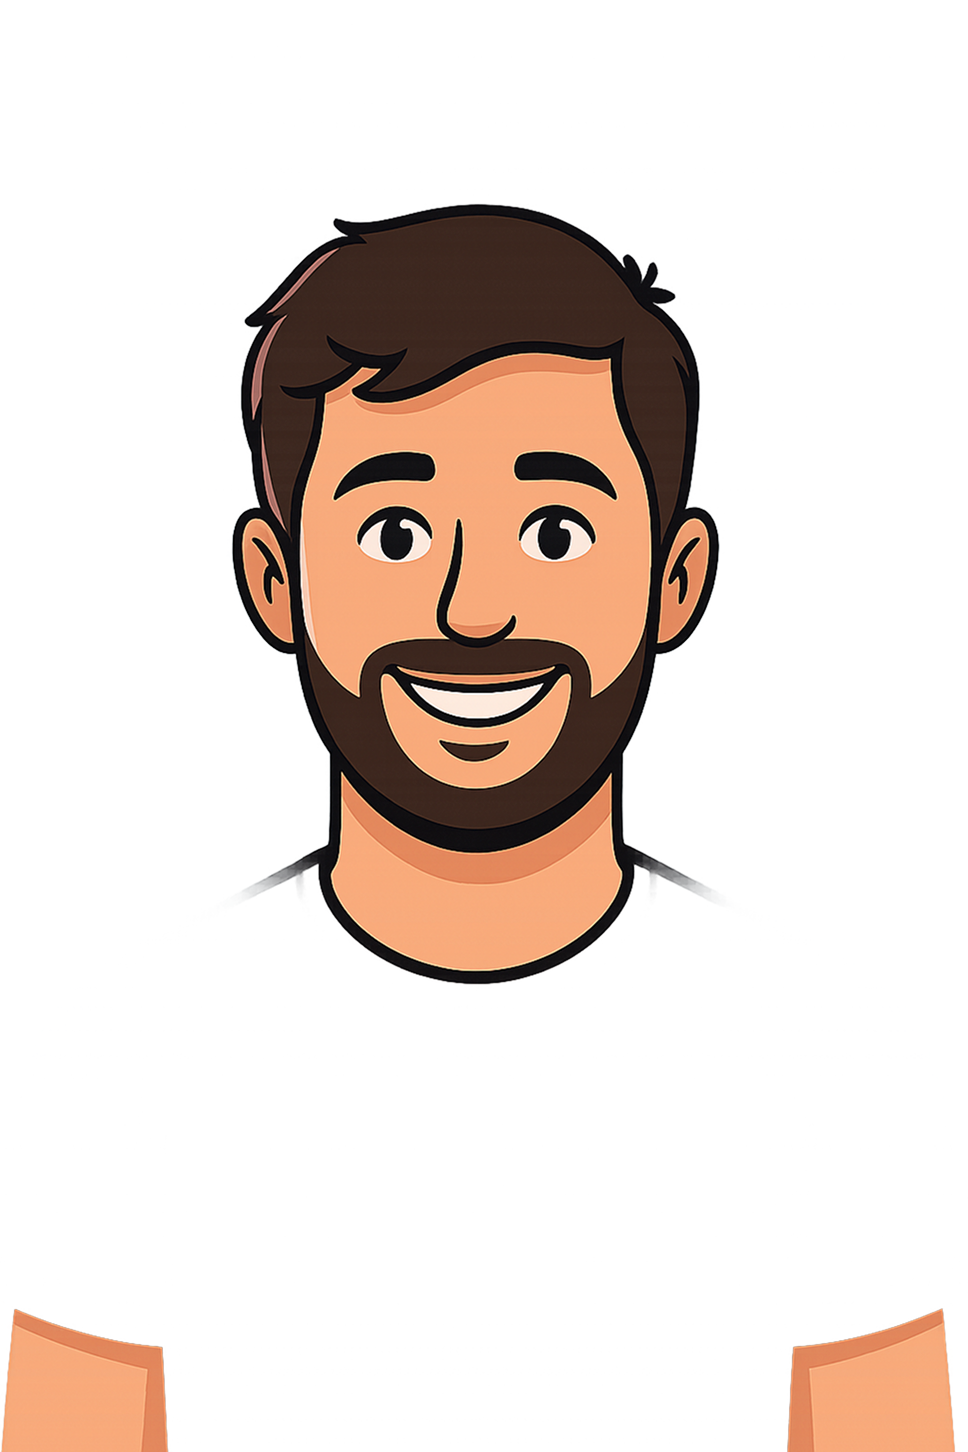
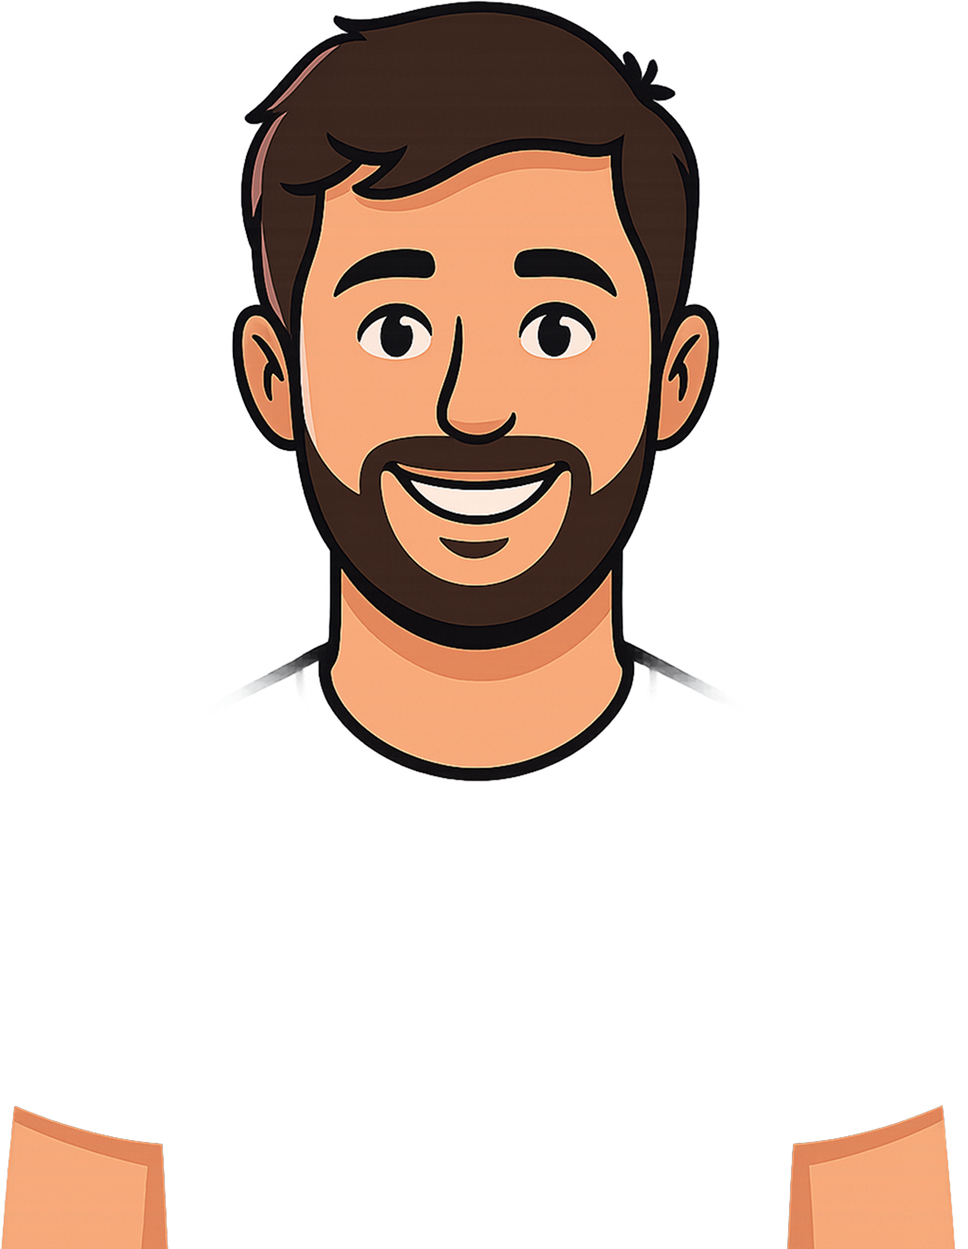
Adicionado Header e ajustado mobile

Changed region(s): [[0.2169, 0.0, 0.7438, 0.6869], [0.8058, 0.8743, 0.9917, 0.968], [0.0, 0.8743, 0.186, 0.968]]

diff --git a/src/components/contact.js b/src/components/contact.js
@@ -63,42 +63,42 @@ export default function ContactForm() {
   };
 
   return (
-    <div className="wrapper mt-[46px] mb-[180px]">
-      <h1 className="title text-[64px] text-center">Contato</h1>
+    <div id='contact' className="wrapper mt-[46px] mb-[180px]">
+      <h1 className="title text-[36px] lg:text-[64px] text-center">Contato</h1>
       <div className="w-full">
         <div className="wrapper w-full flex flex-col gap-[80px] items-center justify-center mx-auto px-[15px] pt-[40px] mt-[50px] bg-[#343A40]">
-          <div className="flex flex-col md:flex-row items-end gap-[45px] md:px-[200px]">
+          <div className="flex flex-row flex-wrap md:flex-nowrap items-end gap-[45px] lg:px-[200px] ">
             <div className="image">
               <Image
                 src="/assets/contact.png"
                 alt="imagem contato"
                 width={353}
                 height={444}
-                className="rounded-md"
+                className="rounded-md w-[176px] h-[222px] md:min-w-[176px] md:min-h-[222px] lg:min-w-[353px] lg:min-h-[444px]"
               />
             </div>
-            <div className="wrappers-buttons p-4 pb-8">
+            <div className="wrappers-buttons md:p-4 md:pb-8">
               <div className="flex justify-center space-x-4 mt-6">
                 <a
                   href="https://www.linkedin.com/in/fabiooliveiradarocha/"
                   target="_blank"
                   rel="noopener noreferrer"
-                  className="flex items-center justify-center w-[63px] h-[63px] bg-[#494f54] text-white rounded hover:bg-blue-800 transition"
+                  className="flex items-center justify-center w-[40px] h-[40px] lg:w-[63px] lg:h-[63px] bg-[#494f54] text-white rounded hover:bg-blue-800 transition"
                 >
-                  <FiLinkedin className='text-[#1f1f1f] w-11 h-11' />
+                  <FiLinkedin className='text-[#1f1f1f] w-8 h-8 lg:w-11 lg:h-11' />
                 </a>
                 <a
                   href="https://github.com/FabioORocha"
                   target="_blank"
                   rel="noopener noreferrer"
-                  className="flex items-center justify-center w-[63px] h-[63px] bg-[#494f54] text-white rounded hover:bg-blue-800 transition"
+                  className="flex items-center justify-center w-[40px] h-[40px] lg:w-[63px] lg:h-[63px] bg-[#494f54] text-white rounded hover:bg-blue-800 transition"
                 >
-                  <RiGithubLine className='text-[#1f1f1f] w-11 h-11' />
+                  <RiGithubLine className='text-[#1f1f1f] w-8 h-8 lg:w-11 lg:h-11' />
                 </a>
               </div>
             </div>
             <div className="form-wrapper w-full pb-4">
-              <p className="title text-center mb-[20px] text-[24px]">Entre em contato comigo!</p>
+              <p className="title text-center mb-[20px] text-[18px]  lg:text-[24px]">Entre em contato comigo!</p>
 
               {enviado && (
                 <div className="max-w-md mx-auto p-4">
@@ -153,7 +153,7 @@ export default function ContactForm() {
                 <button
                   type="submit"
                   disabled={bloqueado}
-                  className={`w-[257px] px-4 py-2 rounded transition text-white ${
+                  className={`w-full md:w-[257px] px-4 py-2 rounded transition text-white ${
                     bloqueado
                       ? 'bg-[#494f54] cursor-not-allowed'
                       : 'bg-gray-500 hover:bg-[#5a6268]'

diff --git a/src/components/projects.js b/src/components/projects.js
@@ -2,30 +2,22 @@ import { FaCheck } from "react-icons/fa6";
 
 import Image from 'next/image'
 
-export default function Experience(){
+export default function Projects(){
 
   const experiencias = [
     {
       class: "row-reverse",
-      titulo: "Desenvolvedor Front-End",
-      subtitulo: "Agência Oásis  01/2025 - 05/2025",
-      texto: "Na Oásis, atuei como desenvolvedor front-end em projetos voltados para e-commerce, colaborando em melhorias e novas implementações em interfaces web. Trabalhei com foco em desempenho, organização do código e entregas dentro de prazos curtos, além de apoiar o time de QA na identificação e ajuste de bugs. Apesar do período breve, foi uma experiência intensa de colaboração com equipe multidisciplinar.",
-      imagem: "/assets/oasis.png",
-      tags: ["JavaScript", "React.js", "HTML5", "CSS3", "Next.js", "Tailwind", "Github", "Nuvemshop", "Wake Commerce", "Scriban", "Figma", "Twig", "Git"],
-    },
-    {
-      class: "row",
-      titulo: "Desenvolvedor Front-End",
-      subtitulo: "Vnda Ecommerce  12/2021 - 11/2023",
-      texto: "Na Vnda, atuei como desenvolvedor front-end em um time responsável por implementar e manter interfaces de lojas virtuais em produção. Colaborei diretamente com o time de design para traduzir layouts em código e garantir experiências fluidas, acessíveis e alinhadas com o design system da empresa. Também participei de revisões de código e trabalhei com múltiplos clientes ao mesmo tempo, sempre priorizando clareza e organização nas entregas.",
-      imagem: "/assets/vnda.png",
-      tags: ["JavaScript", "React.js", "HTML5", "SCSS", "Liquid", "Tailwind", "Github", "Olist Vnda", "Git", "Figma"],
+      titulo: "Desenvolvedor React Native",
+      subtitulo: "PEA-FOCO  06/2020 - 11/2021",
+      texto: "No PEA-FOCO, fui responsável por planejar e desenvolver uma aplicação mobile voltada ao cadastro e organização de dados de pessoas atendidas pela ONG. Participei desde a concepção da solução até a entrega, incluindo a criação do wireframe no Adobe XD, definição das funcionalidades e desenvolvimento da interface com foco em usabilidade e organização.",
+      imagem: "/assets/peafoco.png",
+      tags: ["JavaScript", "React Native", "HTML5", "CSS", "Expo", "Github", "Adobe XD", "Firebase"],
     },
   ];
 
   return(
     <div id="experience" className="wrapper mt-[46px]">
-      <h1 className="title text-[36px] lg:text-[64px] text-center"> Experiências</h1>
+      <h1 className="title text-[36px] lg:text-[64px] text-center"> Projetos</h1>
       <div className="w-full">
 
         {experiencias.map((projeto, index) => (

diff --git a/src/components/fullbanner.js b/src/components/fullbanner.js
@@ -3,19 +3,19 @@ import Image from 'next/image'
 export default function Fullbanner(){
   return(
     <div className="w-full bg-[#343A40] mt-[80px]">
-      <div className="card w-full flex items-center justify-between max-w-[1280px] mx-auto h-[590px] px-[15px]">
-        <div className="text">
-          <h2 className='font-semibold text-[40px]'>Olá, eu sou</h2>
-          <h1 className='font-semibold text-[60px]'>Fábio Rocha</h1>
-          <h2 className='font-semibold text-[40px]'>Desenvolvedor Front-End</h2>
+      <div className="card w-full flex items-center justify-between max-w-[1280px] mx-auto h-[590px] px-4 lg:px-10 relative">
+        <div className="text h-full flex flex-col items-start justify-center">
+          <h2 className='font-semibold text-[18px] lg:text-[40px]'>Olá, eu sou</h2>
+          <h1 className='font-semibold text-[36px] lg:text-[60px]'>Fábio Rocha</h1>
+          <h2 className='font-semibold text-[18px] lg:text-[40px]'>Desenvolvedor Front-End</h2>
         </div>
-        <div className="image-container flex relative w-[484px] h-full">
+        <div className="image-container flex md:relative  md:w-[484px] md:h-full">
           <Image
             src='/assets/fullbanner.png'
             alt='imagem fullbanner'
             width={484}
             height={726}
-            className='absolute bottom-0 left-0'
+            className='absolute bottom-0 left-[60%] md:left-0 w-[160px] md:w-[484px]'
           />
         </div>
       </div>

diff --git a/src/components/about.js b/src/components/about.js
@@ -22,10 +22,10 @@ export default function About(){
   ];
 
   return(
-    <div className="w-full bg-[#343A40] mt-[80px]">
+    <div id='about' className="w-full bg-[#343A40] mt-[80px]">
       <div className="card w-full flex flex-col gap-[80px] items-center justify-center max-w-[978px] mx-auto px-[15px] py-[80px]">
         <div className="text text-center">
-          <h1 className='font-semibold text-[64px] mb-[40px]'>Sobre</h1>
+          <h1 className='font-semibold text-[36px] lg:text-[64px] mb-[40px]'>Sobre</h1>
           <p className='text-[18px] font-josefin'>
             Sou desenvolvedor front-end com mais de três anos de experiência em projetos web e mobile. Trabalho com JavaScript, HTML5, CSS3, React.js e React Native, construindo interfaces responsivas, acessíveis e com boa performance. 
             Tenho experiência com Next.js, Tailwind CSS, Twig, LIQUID, jQuery, Bootstrap e integração com APIs REST, além de conhecimentos em plataformas de e-commerce como NuvemShop, Wake Commerce e Olist Vnda. 
@@ -41,7 +41,7 @@ export default function About(){
               alt={`Imagem ${index + 1}`}
               width={60}
               height={60}
-              className=''
+              className="rounded-md w-[40px] h-[40px] lg:w-[60px] lg:h-[60px]"
             />
           ))}
         </div>

diff --git a/src/components/header.js b/src/components/header.js
@@ -1,0 +1,20 @@
+import Image from 'next/image'
+
+export default function Header(){
+  return(
+    <div className="w-full bg-[#343A40]">
+      <div className="card w-full flex flex-col md:flex-row gap-4 md:gap-0 items-center md:justify-between max-w-[1280px] mx-auto h-[90px] px-4 py-4 lg:px-10">
+        <div className="title ">
+          <h1 className="headet-title">
+            FÁBIO ROCHA
+          </h1>
+        </div>
+        <div className="navigation flex gap-8 md:gap-5">
+          <a href="#about" className=" ">Sobre</a>
+          <a href="#experience" className=" ">Experiência</a>
+          <a href="#contact" className=" ">Contato</a>
+        </div>
+      </div>
+    </div>
+  );
+}

diff --git a/src/app/page.js b/src/app/page.js
@@ -3,13 +3,17 @@ import Fullbanner from "@/components/fullbanner"
 import About from "@/components/about"
 import Experience from "@/components/experience";
 import ContactForm from "@/components/contact";
+import Header from "@/components/header";
+import Projects from "@/components/projects";
 
 export default function Home() {
   return (
     <div>
+      <Header/>
       <Fullbanner/>
       <About/>
       <Experience/>
+      <Projects/>
       <ContactForm/>
     </div>
   );

diff --git a/src/app/globals.css b/src/app/globals.css
@@ -21,6 +21,10 @@
   }
 }
 
+html {
+  scroll-behavior: smooth;
+}
+
 body {
   background: var(--background);
   color: var(--foreground);
@@ -40,12 +44,12 @@ body {
 }
 
 .row{
-  @media (min-width: 768px) {
+  @media (min-width: 1280px) {
     flex-direction: row;
   }
 }
 .row-reverse{
-  @media (min-width: 768px) {
+  @media (min-width: 1280px) {
     flex-direction: row-reverse;
   }
 }
